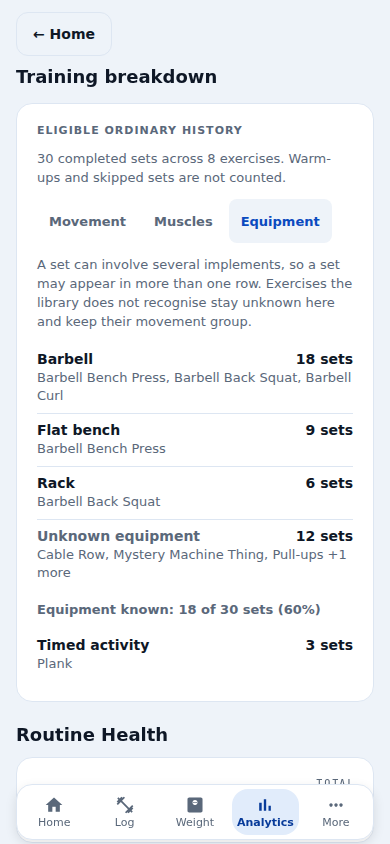
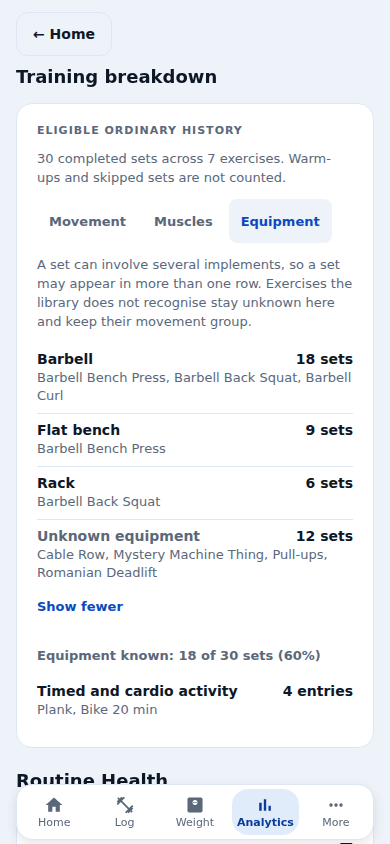
Update #1580 evidence

diff --git a/docs/evidence/training-breakdown/README.md b/docs/evidence/training-breakdown/README.md
@@ -5,7 +5,7 @@
   and one unparsed row excluded; one note-scoped `barbell curl` -> Pull choice; unknown names
   Cable Row / Mystery Machine Thing / Pull-ups; Plank timed holds). Seeded by `capture.cjs`
   into localStorage; mock Supabase project, all other traffic blocked.
-- Before: `main` at 3df760cb (`before-*.png`). After: PR head 40b16b5d374dbe72bec927ce6bd9d7e6ee1d8f01 (`after-*.png`).
+- Before: `main` at 3df760cb (`before-*.png`). After: PR head 8057003795eeeef795ea0c86214021238a90c2fe (`after-*.png`, includes cardio entry `Bike 20 min` in the seed).
 - Capture: `EXPO_PUBLIC_SUPABASE_URL=https://mockproj.supabase.co EXPO_PUBLIC_SUPABASE_ANON_KEY=local-anon-key npx expo export --platform web --output-dir <dir>` then `node capture.cjs <dir> <before|after> <out>`.
 
 Layout checklist (from before-01): 16px side gutters; section title in the existing SectionTitle
@@ -16,5 +16,12 @@ wrapping inside the card; no horizontal overflow; no new tab or Log control.
 Comparison: PASS. after-02 (Movement), after-03-muscles and after-03-equipment show the section
 after Strength and before Routine Health, rows reconcile (21 classified + 9 unclassified = 30),
 coverage lines and unknown rows visible, names wrap inside the card, nothing overflows.
-Active-Recovery placement (inside the baseline disclosure, labelled paused) is covered by the
-ordering and component Jest tests, not a rendered capture.
+Names: `after-03-breakdown-equipment-collapsed-names.png` shows `+1 more` on the Unknown equipment
+row; `after-03-breakdown-equipment.png` shows it expanded (all four names, Show fewer). Cardio: the
+`Bike 20 min` logged entry appears under "Timed and cardio activity" as entries, not sets.
+
+Active Recovery (`RECOVERY=1 node capture.cjs <dir> after <out>`, seeds `recovery-seed.json`: active block
+with baseline note Routine 0, week 1 linked to Routine 1): `after-recovery-01-collapsed.png`
+(baseline disclosure collapsed; capture logs `training-breakdown-section count = 0`) and
+`after-recovery-02-expanded.png` (disclosure expanded: Training breakdown after Strength, labelled
+"Paused during Recovery - baseline history", eligible baseline notes only: 6 sets). PASS.
